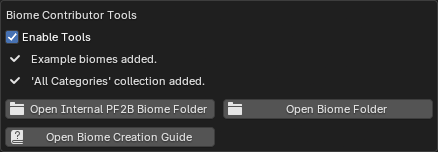
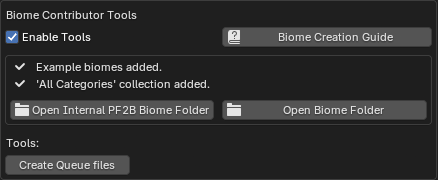
Biome docs

diff --git a/docs/support/create_your_own_biome.md b/docs/support/create_your_own_biome.md
@@ -125,144 +125,135 @@ After you have finished creating your biome inside Blender using Geo-Scatter, fo
 
 
 === "Creation of Queue files"
-    1. **Exporting your queue**
 
-        If you used the [queue](../workflow/browse_via_blender.md#queue) feature when creating the biome and still have the plants in your queue, you can export them as a `.pf2bqueue` file via the :material-menu: menu by selecting **Save Queue**.
+    1. **Create Queue files**
 
-        ![Queue file](../images/support/biome/save-queue.gif){ .img-box }
+        Select whether to automatically generate these files or create them manually for finer control.
 
-        !!! info2 ""
-            If you did not use the queue system, select all the plants in your scene that are used by the biome, then use the same :material-menu: menu and choose **Add Selected to Queue**. After that, use **Save Queue** to generate the file.
+        === "Automatic creation"
+            Use the **[Create Queue files](../preferences/plant_library.md#biome-contributor-tools)** tool inside `Preferences > Plant Library > Biomes & Collections > Biome Contributor Tools`. This tool lets you select a `.biome` file and generate one or more `.pf2bqueue` files.
+
+            !!! info2 "Note"
+                This tool creates new files; it does not modify the original `.biome` file.
+
+            <h5>Tool options</h5>
+
+            - **Create**:
+                - **HD & LD variants**:<br>
+                Generates two queue files from your Biome: one for HD and one for LD. All plants in the Biome will be adjusted so their detail level matches the selected file (HD or LD). This lets you quickly create both variants without manually duplicating or editing the files.
+                - **Keep as is**:<br>
+                Keeps the exact detail levels defined in your Biome file when creating the queue file. This is useful if your Biome contains a mix of detail levels and you want precise control. After saving the queue, you will need to manually create additional detail-level files by duplicating and adjusting the generated file. When selecting this option, you must specify whether the source biome file is HD or LD.
 
 
-    - **Place the queue file**
+            <h4>Choosing your workflow:</h4>
 
-        Move the queue file to the same directory as your biome and name it the same as your biome, for example: `my_biome.pf2bqueue`.
+            - If you want your biomes strictly as either HD or LD, choose **Create HD & LD variants**.
 
-        ![Queue file](../images/support/biome/biome-files-and-queue.webp){ .img-box }
+            - If you have mixed detail levels and want granular control, select **Keep as is**. The next section, **Creating additional queue files for different detail levels**, explains how to handle mixed-detail biomes.
+
+            - If you choose **HD & LD variants**, you can skip the additional queue files section.
+
+
+        === "Manual creation"
+            If you used the [queue](../workflow/browse_via_blender.md#queue) feature when creating the biome and still have the plants in your queue, you can export them as a `.pf2bqueue` file via the :material-menu: menu by selecting **Save Queue**.
+
+            ![Queue file](../images/support/biome/save-queue.gif){ .img-box align=left }
+
+            Save the queue file to the same directory as your biome and name it the same as your biome, for example: `my_biome.pf2bqueue`.
+
+            !!! info2 ""
+                If you did not use the queue system, select all plants in your scene used by the biome, then use the same :material-menu: menu and choose **Add Selected to Queue**. After that, use **Save Queue** to generate the file.
+
+            <div style="clear:both"></div>
+
+            Now your biome folder will look something like:
+
+            ![Queue file](../images/support/biome/biome-files-and-queue.webp){ .img-box }
 
 
     - **Creating additional queue files for different detail levels**
 
-        PF2B currently looks for LD (Low Detail) and HD (High Detail) versions of your biome.
+        !!! warning "Note"
+            This section is only relevant if you used **Keep as is** in automatic creation or the **Manual creation** workflow.
 
-        - If you only built the biome with **LD** plants, rename the original queue file to include the detail level in brackets: `my_biome.pf2bqueue` → `my_biome[LD].pf2bqueue`
+        ??? abstract "Instructions"
+            PF2B looks for two queue files in a biome folder: one for HD (High Detail) and one for LD (Low Detail). These files are expected to follow this naming convention:
 
-        - To create the **HD** version, copy the LD queue file and rename it: `my_biome[HD].pf2bqueue`.
+            - `my_biome[HD].pf2bqueue`
+            - `my_biome[LD].pf2bqueue`
 
-            Then, manually edit the file in a text editor: update `plant_name`, `plant_detail`, and `plant_path` values by replacing **LD** with **HD**. It should look similar to this:
+            !!! info2 "Tip"
+                A queue file labeled as LD or HD does not need to contain only plants of that detail level. As a rule of thumb, the majority of plants should match the file’s detail level, but mixing different detail levels across individual plants is encouraged.
 
+            - If you exported the queue manually and the file name does not include the detail level, rename it to indicate the detail level of the plants it contains. For example, if the file contains mostly **LD** plants: `my_biome.pf2bqueue` → `my_biome[LD].pf2bqueue`.
 
-            === "LD"
-                ``` json
-                [
-                    {
-                        "main_category": "PlantCatalog",
-                        "plant_name": "Aesculus pavia LD",
-                        "plant_type": "Broadleaf Trees",
-                        "plant_detail": "LD",
-                        "plant_path": "PlantCatalog\\Broadleaf Trees\\Aesculus pavia LD.tpf",
-                        "preset_name": "Standard mat 25",
-                        "preset_display_name": "Standard (25)",
-                        "preset_number": 1,
-                        "quantity": 1
-                    },
-                    {
-                        "main_category": "PlantCatalog",
-                        "plant_name": "Dryopteris filix-mas LD",
-                        "plant_type": "Ferns",
-                        "plant_detail": "LD",
-                        "plant_path": "PlantCatalog\\Ferns\\Dryopteris filix-mas LD.tpf",
-                        "preset_name": "Standard mat 0",
-                        "preset_display_name": "Standard (0)",
-                        "preset_number": 0,
-                        "quantity": 1
-                    }
-                ]
-                ```
+            - To create the **HD** version, copy the LD queue file and rename it: `my_biome[HD].pf2bqueue`.
 
-            === "HD"
-                ``` json
-                [
-                    {
-                        "main_category": "PlantCatalog",
-                        "plant_name": "Aesculus pavia HD",
-                        "plant_type": "Broadleaf Trees",
-                        "plant_detail": "HD",
-                        "plant_path": "PlantCatalog\\Broadleaf Trees\\Aesculus pavia HD.tpf",
-                        "preset_name": "Standard mat 25",
-                        "preset_display_name": "Standard (25)",
-                        "preset_number": 1,
-                        "quantity": 1
-                    },
-                    {
-                        "main_category": "PlantCatalog",
-                        "plant_name": "Dryopteris filix-mas HD",
-                        "plant_type": "Ferns",
-                        "plant_detail": "HD",
-                        "plant_path": "PlantCatalog\\Ferns\\Dryopteris filix-mas HD.tpf",
-                        "preset_name": "Standard mat 0",
-                        "preset_display_name": "Standard (0)",
-                        "preset_number": 0,
-                        "quantity": 1
-                    }
-                ]
-                ```
+                Then, open the file in a text editor and update the `plant_name`, `plant_detail`, and `plant_path` values by replacing **LD** with **HD** as needed. You are encouraged to adjust and mix detail levels across plants to suit your biome, creating a custom balance of HD and LD plants. If you do not need mixed detail levels and prefer a strict HD or LD variant, it is recommended to use the **automatic workflow** instead.
+
+                Example LD and HD queue files for reference; you can adjust detail levels as needed:
+
+                === "LD"
+                    ``` json
+                    [
+                        {
+                            "main_category": "PlantCatalog",
+                            "plant_name": "Aesculus pavia LD",
+                            "plant_type": "Broadleaf Trees",
+                            "plant_detail": "LD",
+                            "plant_path": "PlantCatalog\\Broadleaf Trees\\Aesculus pavia LD.tpf",
+                            "preset_name": "Standard mat 25",
+                            "preset_display_name": "Standard (25)",
+                            "preset_number": 1,
+                            "quantity": 1
+                        },
+                        {
+                            "main_category": "PlantCatalog",
+                            "plant_name": "Dryopteris filix-mas LD",
+                            "plant_type": "Ferns",
+                            "plant_detail": "LD",
+                            "plant_path": "PlantCatalog\\Ferns\\Dryopteris filix-mas LD.tpf",
+                            "preset_name": "Standard mat 0",
+                            "preset_display_name": "Standard (0)",
+                            "preset_number": 0,
+                            "quantity": 1
+                        }
+                    ]
+                    ```
+
+                === "HD"
+                    ``` json
+                    [
+                        {
+                            "main_category": "PlantCatalog",
+                            "plant_name": "Aesculus pavia HD",
+                            "plant_type": "Broadleaf Trees",
+                            "plant_detail": "HD",
+                            "plant_path": "PlantCatalog\\Broadleaf Trees\\Aesculus pavia HD.tpf",
+                            "preset_name": "Standard mat 25",
+                            "preset_display_name": "Standard (25)",
+                            "preset_number": 1,
+                            "quantity": 1
+                        },
+                        {
+                            "main_category": "PlantCatalog",
+                            "plant_name": "Dryopteris filix-mas HD",
+                            "plant_type": "Ferns",
+                            "plant_detail": "HD",
+                            "plant_path": "PlantCatalog\\Ferns\\Dryopteris filix-mas HD.tpf",
+                            "preset_name": "Standard mat 0",
+                            "preset_display_name": "Standard (0)",
+                            "preset_number": 0,
+                            "quantity": 1
+                        }
+                    ]
+                    ```
+    - **Queue files ready**
 
         So now you should have both `my_biome[LD].pf2bqueue` and `my_biome[HD].pf2bqueue` in the folder.
 
-        !!! info2 "Details"
-            PF2B uses the `.pf2bqueue` file as the **Master Record**, so to speak. It dictates which plants are exported into the biome.
-
-            During the build process, PF2B uses the **plant name** and **preset name** to cross-check which plants should go inside the biome. This means you can switch plant detail levels in the queue file without needing to manually create multiple biomes for different detail levels.
-            <br>For example, even if you build your biome with `[LD]` plants, you can easily switch the detail levels as shown above, and it will still work. PF2B automatically modifies all of the necessary fields inside the `.biome` file during the build so that everything works correctly.
-
-            However, please note that you cannot change the plants or presets themselves, only the detail levels!
-
-            ??? info2 "Even more Details"
-                Here's an example of what happens to the `.biome` file during processing:
-
-                **Raw output** directly from Geo-Scatter after exporting a biome (different example than shown in the guide above):
-
-                *This block represents one layer inside the `.biome` file*
-
-                ``` json
-                "asset_file": "my_library",
-                "instances": [
-                    "Hong Kong Orchid Tree [Standard mat 0|HD]",
-                    "Dead Lodgepole Pine [Standard 1a mat 0|HD]",
-                    "Mountain Hemlock [Standard mat 0|HD]"
-                ]
-                ```
-
-                During **Build Biome**, PF2B transforms this into:
-
-                ``` json
-                "asset_file": "INSTANCES_DEFINED",
-                "instances": [
-                    [
-                        "Hong Kong Orchid Tree [Standard mat 0|LD]",
-                        "pf2b-biome_Broadleaf_Trees[LD]"
-                    ],
-                    [
-                        "Dead Lodgepole Pine [Standard 1a mat 0|LD]",
-                        "pf2b-biome_Coniferous[LD]"
-                    ],
-                    [
-                        "Mountain Hemlock [Standard mat 0|HD]",
-                        "pf2b-biome_Coniferous[HD]"
-                    ]
-                ]
-                ```
-
-                PF2B automatically:
-
-                - Identifies the plant type
-                - Points it to the correct `.blend` file
-                - Adjusts detail levels where necessary
-
-    !!! info2 ""
-        Now continue with the [Finishing Touches](#creating-the-biome-finishing-touches)
+        !!! info2 ""
+            Now continue with the [Finishing Touches](#creating-the-biome-finishing-touches)
 
 
 === "Finishing Touches"
@@ -294,3 +285,60 @@ After you have finished creating your biome inside Blender using Geo-Scatter, fo
 
 
         This will allow PF2B to recognize and load your custom biome properly. Once it's detected, you can try the **[Build Biome](../workflow/biomes.md#building-a-biome)** button, and afterwards go to `Geo-Scatter > Biome Scatter > Open Biomes` to test the biome in action.
+
+
+
+---
+
+
+
+### Understanding Biome Builds
+
+PF2B uses the `.pf2bqueue` file as the **Master Record**, so to speak. It dictates which plants are exported into the biome.
+
+During the build process, PF2B uses the **plant name** and **preset name** to cross-check which plants should go inside the biome. This means you can switch plant detail levels in the queue file without needing to manually create multiple biome versions. A single biome file is sufficient.
+<br>For example, even if you build your biome with `[LD]` plants, you can easily switch the detail levels as shown above, and it will still work. PF2B automatically modifies all of the necessary fields inside the `.biome` file during the build so that everything works correctly.
+
+However, please note that you cannot change the plants or presets themselves, only the detail levels!
+
+??? info2 "Even more Details"
+    Here's an example of what happens to the `.biome` file during processing:
+
+    **Raw output** directly from Geo-Scatter after exporting a biome (different example than shown in the guide above):
+
+    *This block represents one layer inside the `.biome` file*
+
+    ``` json
+    "asset_file": "my_library",
+    "instances": [
+        "Hong Kong Orchid Tree [Standard mat 0|HD]",
+        "Dead Lodgepole Pine [Standard 1a mat 0|HD]",
+        "Mountain Hemlock [Standard mat 0|HD]"
+    ]
+    ```
+
+    During **Build Biome**, PF2B transforms this into:
+
+    ``` json
+    "asset_file": "INSTANCES_DEFINED",
+    "instances": [
+        [
+            "Hong Kong Orchid Tree [Standard mat 0|LD]",
+            "pf2b-biome_Broadleaf_Trees[LD]"
+        ],
+        [
+            "Dead Lodgepole Pine [Standard 1a mat 0|LD]",
+            "pf2b-biome_Coniferous[LD]"
+        ],
+        [
+            "Mountain Hemlock [Standard mat 0|HD]",
+            "pf2b-biome_Coniferous[HD]"
+        ]
+    ]
+    ```
+
+    PF2B automatically:
+
+    - Identifies the plant type
+    - Points it to the correct `.blend` file
+    - Adjusts detail levels where necessary
